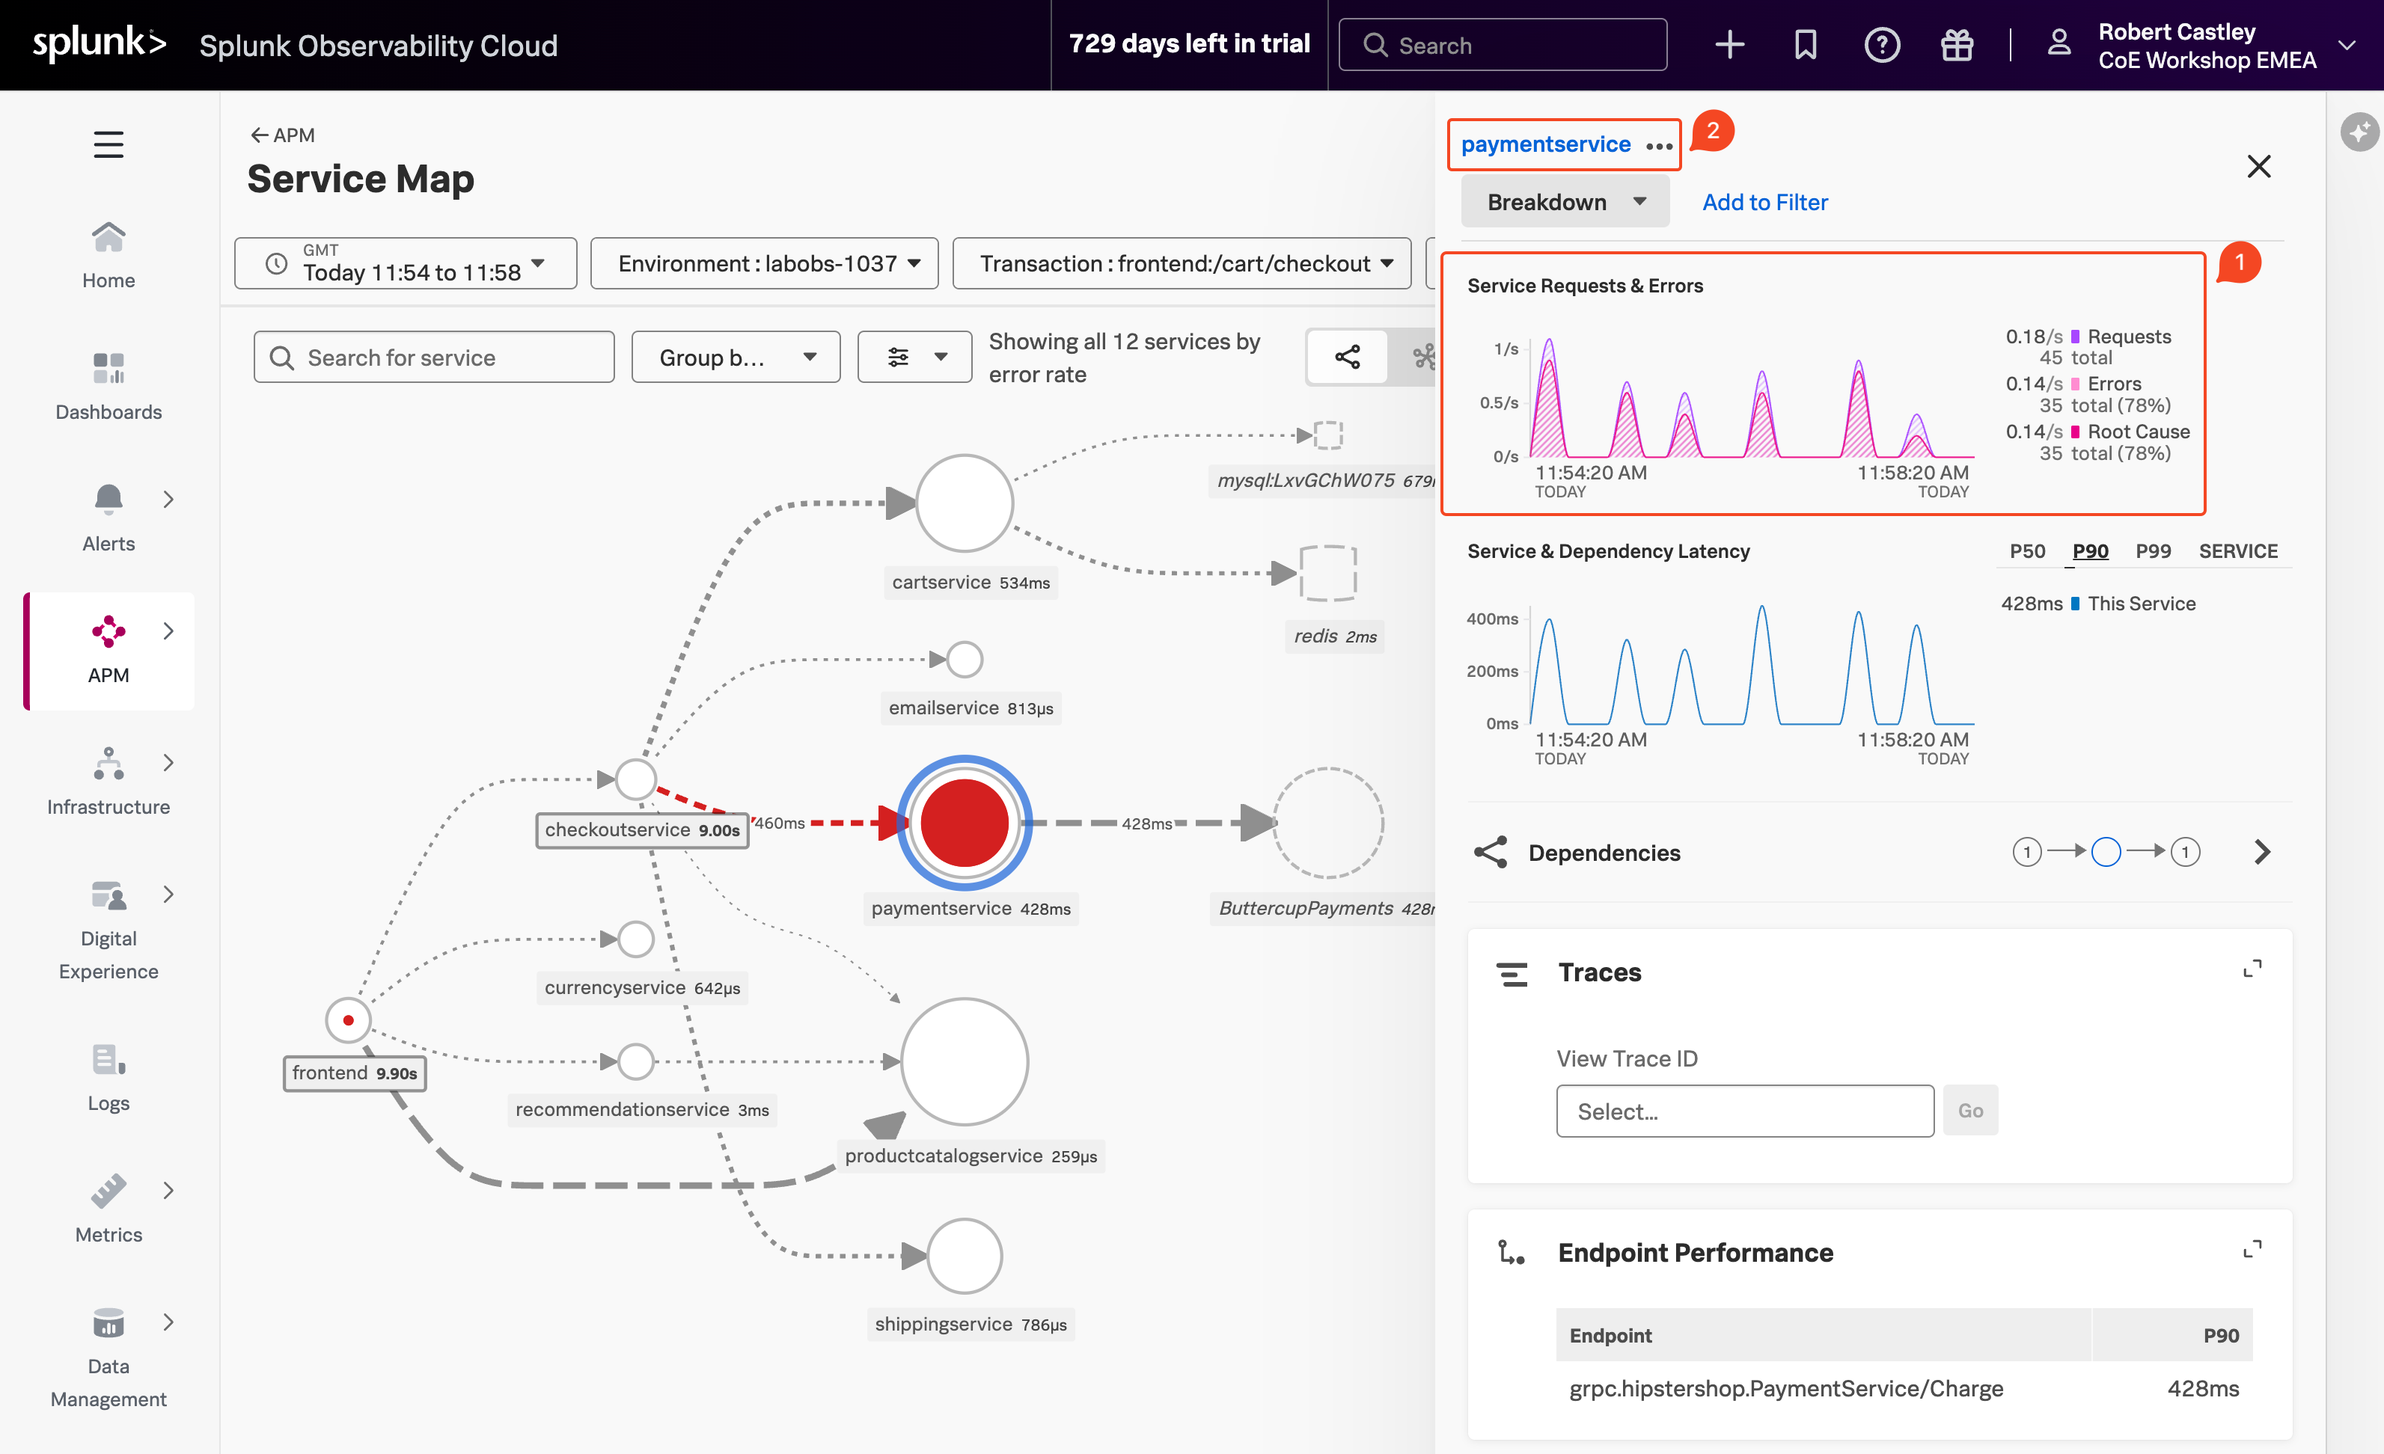
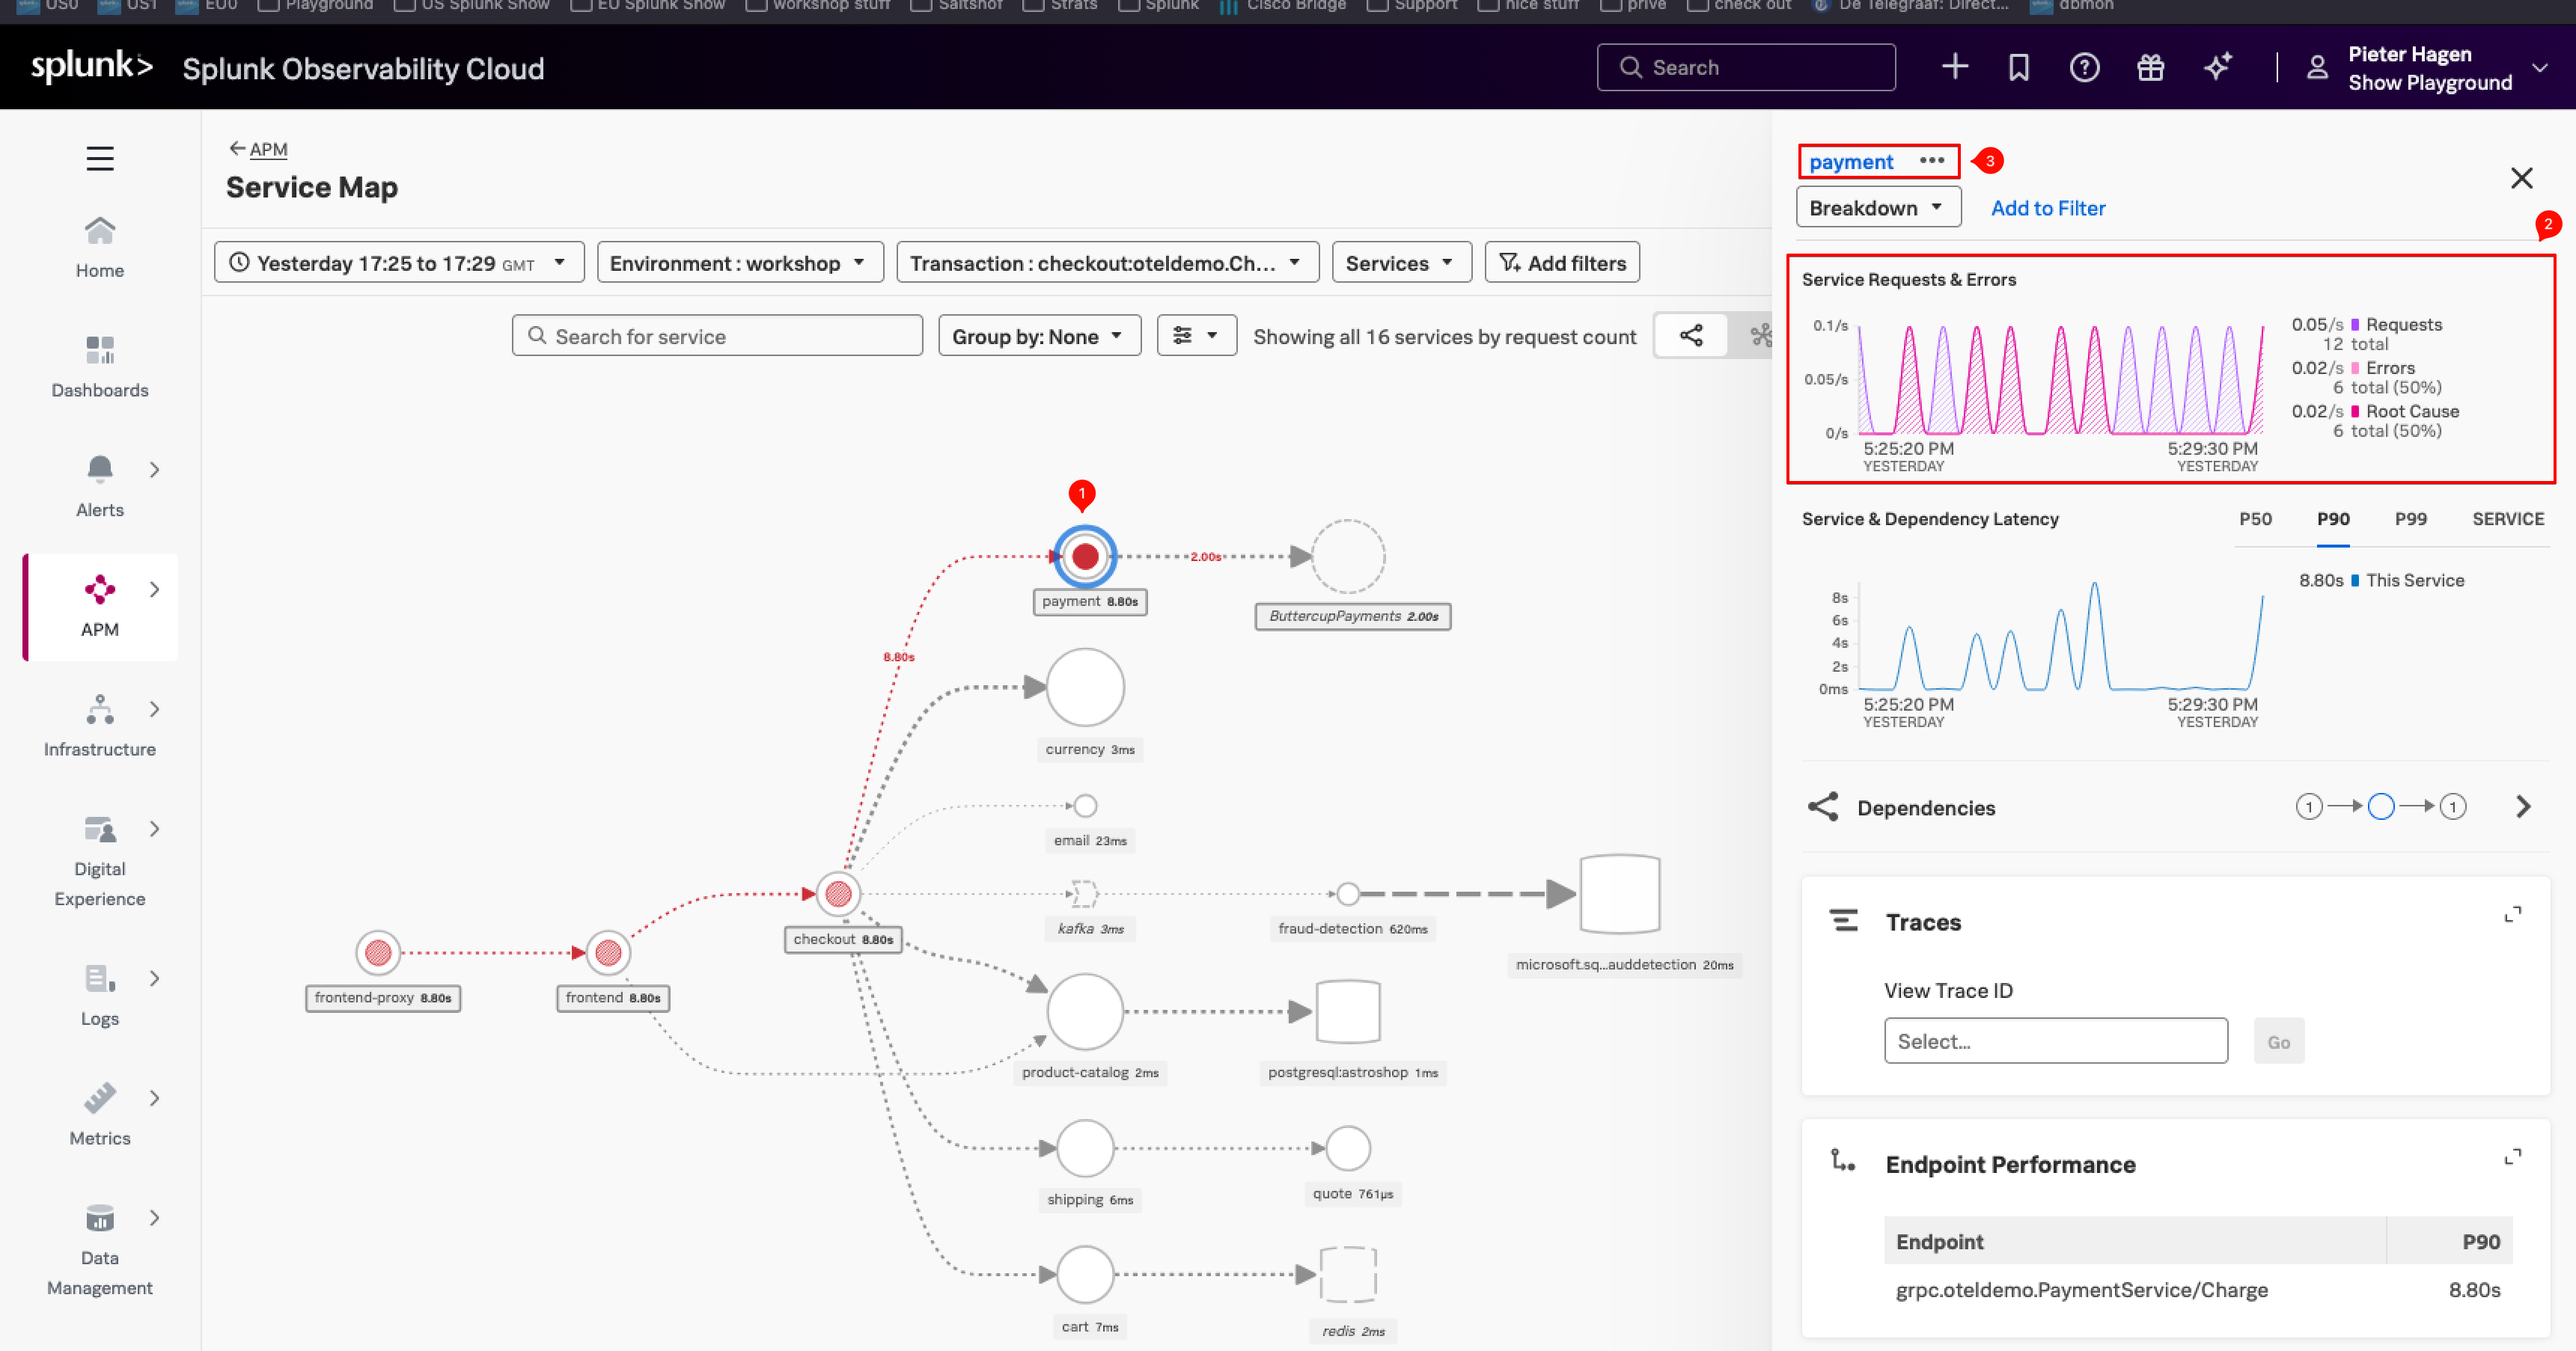
APM I

diff --git a/content/en/splunk4rookies/o11y-rookies-26/1-modules/1-intro/4-apm/1-apm-service-map.md b/content/en/splunk4rookies/o11y-rookies-26/1-modules/1-intro/4-apm/1-apm-service-map.md
@@ -3,28 +3,34 @@ title: 1. APM Service Map
 weight: 1
 ---
 
-The APM Service Map displays the dependencies and connections among your instrumented and inferred services in APM. The map is dynamically generated based on your selections in the time range, environment, workflow, service, and tag filters.
+The APM Service Map shows the backend services involved in processing a request and the connections between them. It helps you understand how a business operation travels through the application and where delays or errors occur.
 
-When we clicked on the APM link in the RUM waterfall, filters were automatically added to the service map view to show the services that were involved in that **WorkFlow Name** (`frontend:/cart/checkout`).
+You arrived here by selecting the `checkout:oteldemo.CheckoutService/PlaceOrder` **Business Operation** from the RUM session. Splunk Observability Cloud automatically applied the relevant filters, so the map focuses on the services involved in that operation during the selected time range.
 
-You can see the services involved in the workflow in the **Service Map**. In the side pane, charts for the selected workflow are displayed. When you select a service in the **Service Map**, the charts in the side pane are updated to show metrics for the selected service.
+Each circle represents a service, and the lines show how requests travel between services. The color of a circle indicates the service’s status. A *red* circle identifies the service where errors originate, while a *red* connection shows the path taken by failed requests.
 
-{{% exercise title="Inspect paymentservice on the map" %}}
+The panel on the right initially summarizes the selected business operation. When you select a service on the map, the panel updates to show metrics for that service, including requests, errors, latency, dependencies, traces, and endpoint performance. 
 
-* Click on the **paymentservice** in the Service Map to select it.
+{{% exercise title="Inspect payment service" %}}
+
+* Select the *red* **payment** service **(1)** in the Service Map.
+
+* Confirm that **payment** appears at the top of the right-hand panel **(3)**.
+
+Examine the ** Service Requests & Errors** chart **(2)**. Compare the number of requests with the number of errors.
 
 ![APM Explore](../images/apm-business-workflow.png)
 
 {{< tabs >}}
 {{% tab title="Question" %}}
-**With the `paymentservice` selected, what can you conclude from the Service Requests & Errors chart in the side pane?** **(1)**
+**What does the *Service Requests & Errors* chart tell you about the reliability of the payment service?**
 {{% /tab %}}
 {{% tab title="Answer" %}}
-**The Errors percentage is very high.**
+**The *payment* service is experiencing a high error rate. In this example, approximately half of its requests result in errors. Your exact values may differ, but the chart should show that a significant proportion of payment requests are failing.**
 {{% /tab %}}
 {{< /tabs >}}
 
-* Splunk APM also provides built-in **Service Centric Views** to help you see problems occurring in real time and quickly determine whether the problem is associated with a service, a specific endpoint, or the underlying infrastructure. Let's have a closer look.
-* In the right-hand pane, click on **paymentservice** in blue **(2)**.
+The Service Map has identified **payment** as the source of the *checkout* errors. Next, you’ll open its *Service-Centric View* to examine the service, its endpoints, and the infrastructure on which it runs.
+In the right-hand panel, select the blue **payment** service name **(3)** to open its *Service-Centric View*.
 
 {{% /exercise %}}

diff --git a/content/en/splunk4rookies/o11y-rookies-26/1-modules/1-intro/4-apm/_index.md b/content/en/splunk4rookies/o11y-rookies-26/1-modules/1-intro/4-apm/_index.md
@@ -18,7 +18,8 @@ You are a **back-end developer** and you have been called in to help investigate
 
 {{< webex chat="Pieter Hagen" date="Today • 28/01/2026" seenby="RC" >}}
 {{< webex-msg from="PH" name="Pieter Hagen" time="09:42" color="#571bc0" >}}
-Hey Robert, I've triaged a customer satisfaction issue with Online Boutique. RUM shows poor page load times. I traced a user session to the backend using Related Content — the latency is coming from the **paymentservice**.
+Hey Robert, I've triaged a customer satisfaction issue with the Astronomy Shop website.
+RUM shows poor page load times. I traced a user session to the backend using Related Content — the latency is coming from the **payment** service.
 {{< /webex-msg >}}
 
 {{< webex-msg from="PH" name="Pieter Hagen" time="09:43" color="#571bc0" >}}
